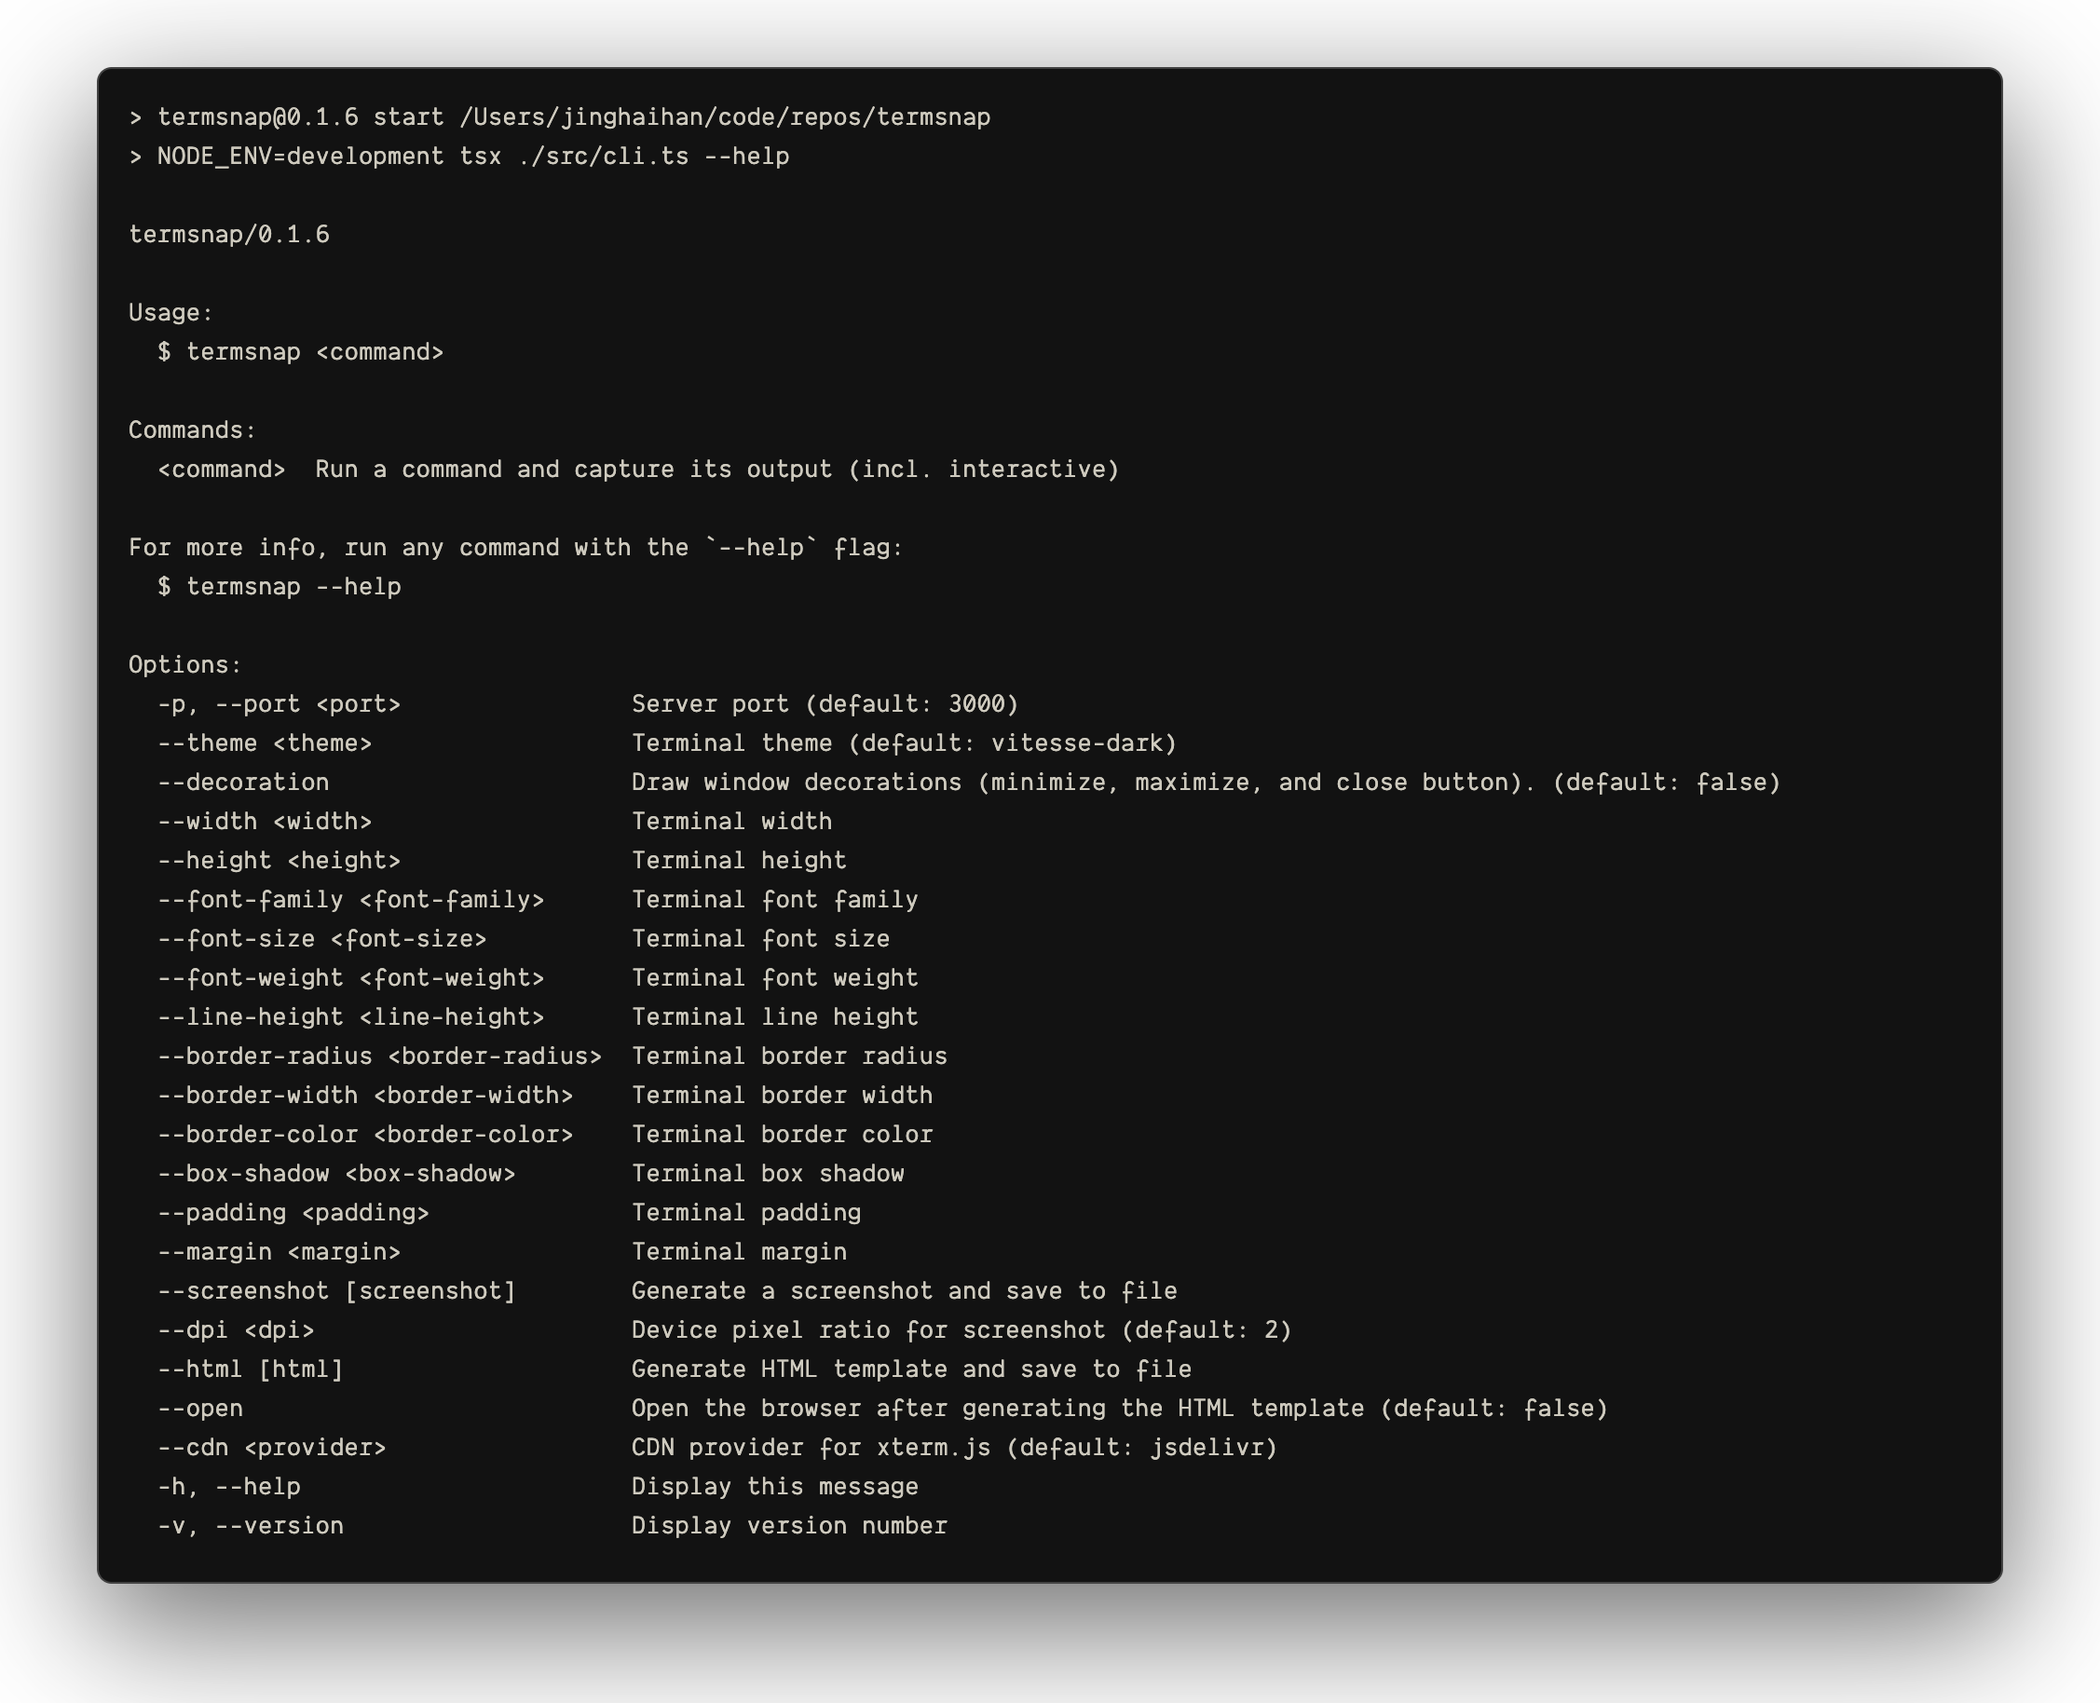
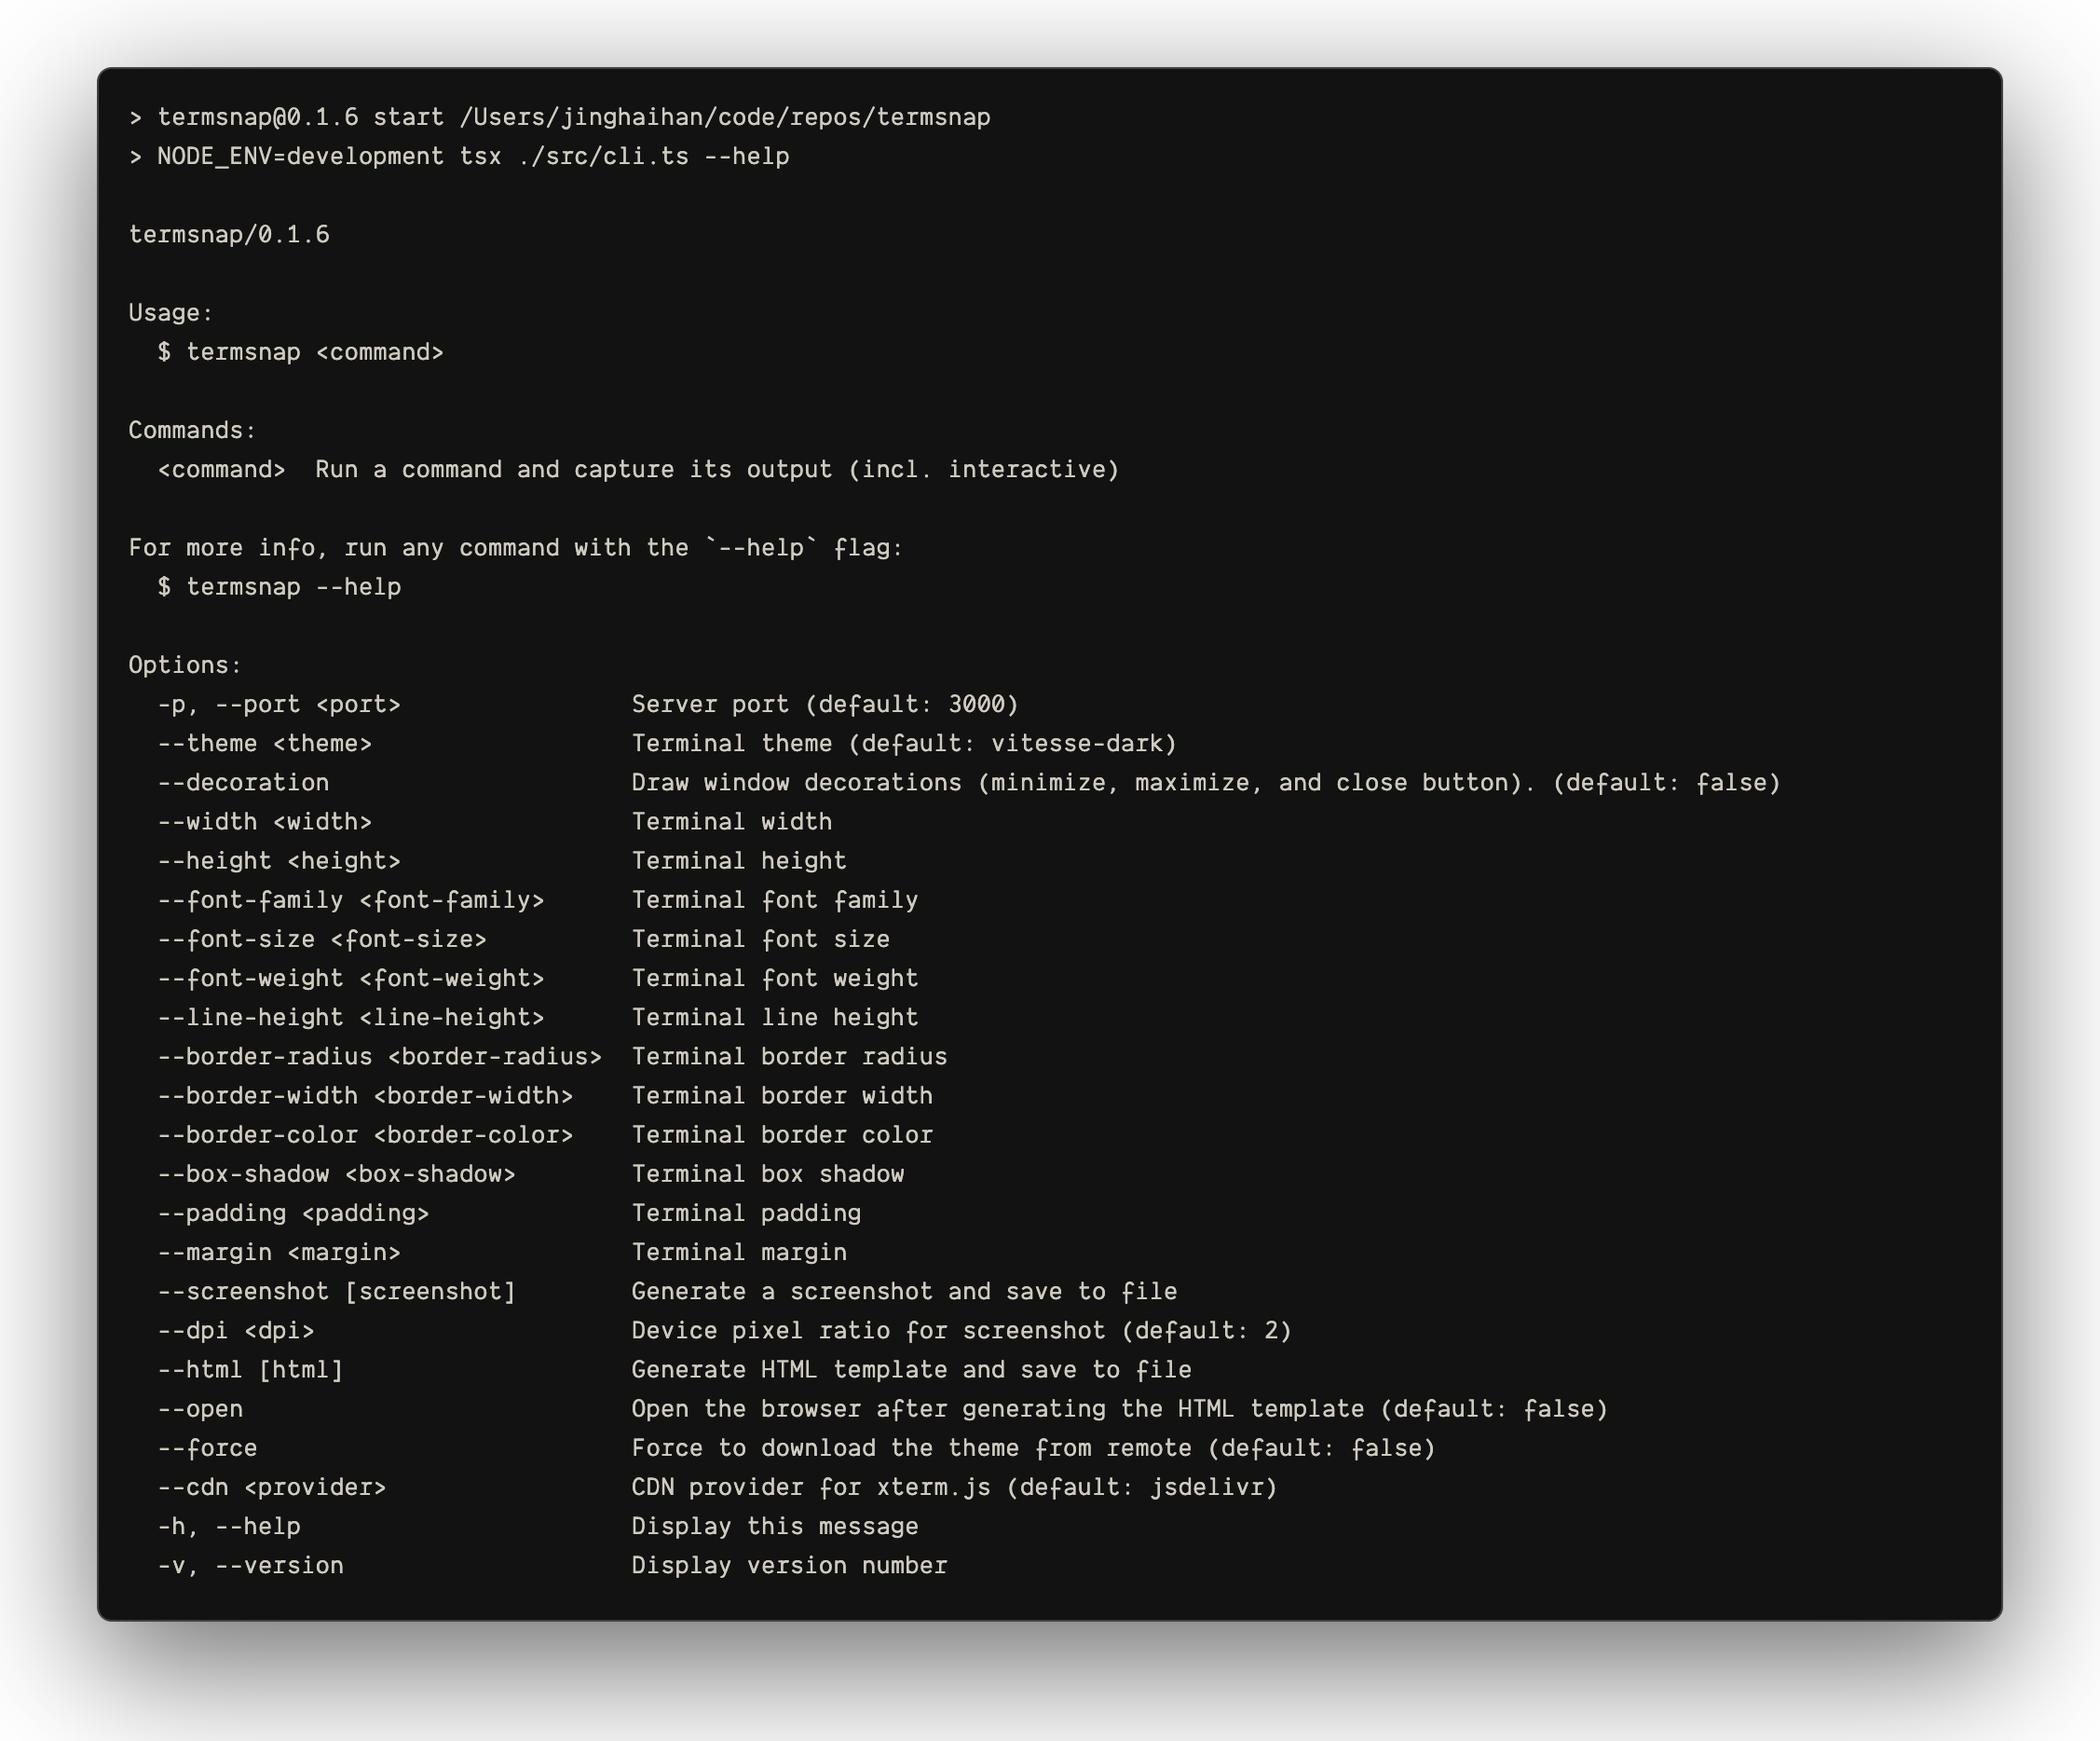
feat: add `force` option for remote theme download with no cache

diff --git a/src/utils/text.ts b/src/utils/text.ts
@@ -2,16 +2,16 @@ import type { TerminalOutput } from '../types'
 import emojiRegex from 'emoji-regex'
 import stripAnsi from 'strip-ansi'
 
-const EMOJI_RE = emojiRegex()
+const EMOJI_REGEX = emojiRegex()
 
 // Add a space after every emoji
 function fixEmojiSpacing(text: string): string {
-  return text.replace(EMOJI_RE, '$& ')
+  return text.replace(EMOJI_REGEX, '$& ')
 }
 
 // Remove spinner characters
 function cleanSpinner(text: string): string {
-  return text.replace(/[⠙⠹⠸⠼⠴⠦⠧⠇⠏⠋]/g, '').trim()
+  return text.replace(/[⠙⠹⠸⠼⠴⠦⠧⠇⠏⠋]/g, '')
 }
 
 function cleanOutput(text: string): string {
@@ -27,10 +27,9 @@ export function processTerminalOutputs(outputs: TerminalOutput[]) {
       .join('')
       .trim(),
   )
+  const rawText = stripAnsi(combinedOutput)
 
-  const cleanText = stripAnsi(combinedOutput)
-
-  const lines = cleanText.split('\n')
+  const lines = rawText.split('\n')
   const lineCount = lines.length
   const maxLineLength = Math.max(...lines.map((line: string) => line.length), 0)
 

diff --git a/src/screenshot.ts b/src/screenshot.ts
@@ -23,7 +23,7 @@ export async function generateScreenshot(outputs: TerminalOutput[], options: Con
   const viewportWidth = width + margin.horizontal
   const viewportHeight = height + margin.vertical
 
-  p.log.info(`Launching ${c.cyan`Puppeteer`} browser with size: ${c.yellow`${width}x${height}`}`)
+  p.log.info(`Launching ${c.cyan`Puppeteer`} with size: ${c.yellow`${width}x${height}`}`)
   const puppeteer = (await (import('puppeteer'))).default
   const browser = await launchBrowser(puppeteer)
   const page = await browser.newPage()
@@ -76,7 +76,7 @@ async function launchBrowser(puppeteer: PuppeteerNode): Promise<Browser> {
       await installChrome()
       return await launch()
     }
-    p.outro(c.red(`Failed to launch browser: ${errorMessage}`))
+    p.outro(c.red(`Failed to launch ${c.cyan`Puppeteer`}: ${errorMessage}`))
     process.exit(1)
   }
 }

diff --git a/src/html.ts b/src/html.ts
@@ -13,7 +13,7 @@ export async function generateHTML(
   save: boolean = false,
 ): Promise<string> {
   const cdn = XTERM_CDN_URLS[options.cdn]
-  const { combinedOutput, maxLineLength } = processTerminalOutputs(outputs)
+  const { combinedOutput, maxLineLength, lineCount } = processTerminalOutputs(outputs)
   const { width, height } = calculateContainerDimensions(outputs, options)
 
   const html = `
@@ -148,7 +148,7 @@ export async function generateHTML(
                   lineHeight: themeConfig.font.lineHeight,
                   theme: ${JSON.stringify(options.theme)},
                   cols: ${maxLineLength},
-                  rows: ${combinedOutput.split('\n').length},
+                  rows: ${lineCount},
               });
 
               // Initialize fit addon

diff --git a/src/cli.ts b/src/cli.ts
@@ -35,6 +35,7 @@ try {
     .option('--dpi <dpi>', 'Device pixel ratio for screenshot', { default: 2 })
     .option('--html [html]', 'Generate HTML template and save to file')
     .option('--open', 'Open the browser after generating the HTML template', { default: false })
+    .option('--force', 'Force to download the theme from remote', { default: false })
     .option('--cdn <provider>', 'CDN provider for xterm.js', { default: 'jsdelivr' })
     .action(async (command: string, options: CommandOptions) => {
       p.intro(`${c.yellow`${name} `}${c.dim`v${version}`}`)

diff --git a/src/browser.ts b/src/browser.ts
@@ -35,7 +35,7 @@ export async function openInBroz(outputs: TerminalOutput[], options: ConfigOptio
   })
 
   const { width, height } = await calculateContainerDimensions(outputs, generateOptions)
-  p.log.info(`Opening ${c.cyan`Broz`} browser with size ${c.yellow`${width}x${height}`}...`)
+  p.log.info(`Opening ${c.cyan`Broz`} with size ${c.yellow`${width}x${height}`}...`)
 
   // Launch broz with the local server URL
   await execa(

diff --git a/README.md b/README.md
@@ -84,9 +84,11 @@ pnpx termsnap "command" --theme "0x96f"
 ### Server Settings
 - `port` - Server port (default: 3000)
 - `cdn` - CDN provider for xterm.js (jsdelivr, unpkg)
+- `force` - Force to download the theme from remote
 
 ### Output Options
 - `screenshot` - Generate screenshot and save to file
+- `dpi` - Device pixel ratio for screenshot
 - `html` - Generate HTML template and save to file
 - `open` - Open browser after generating HTML template
 
